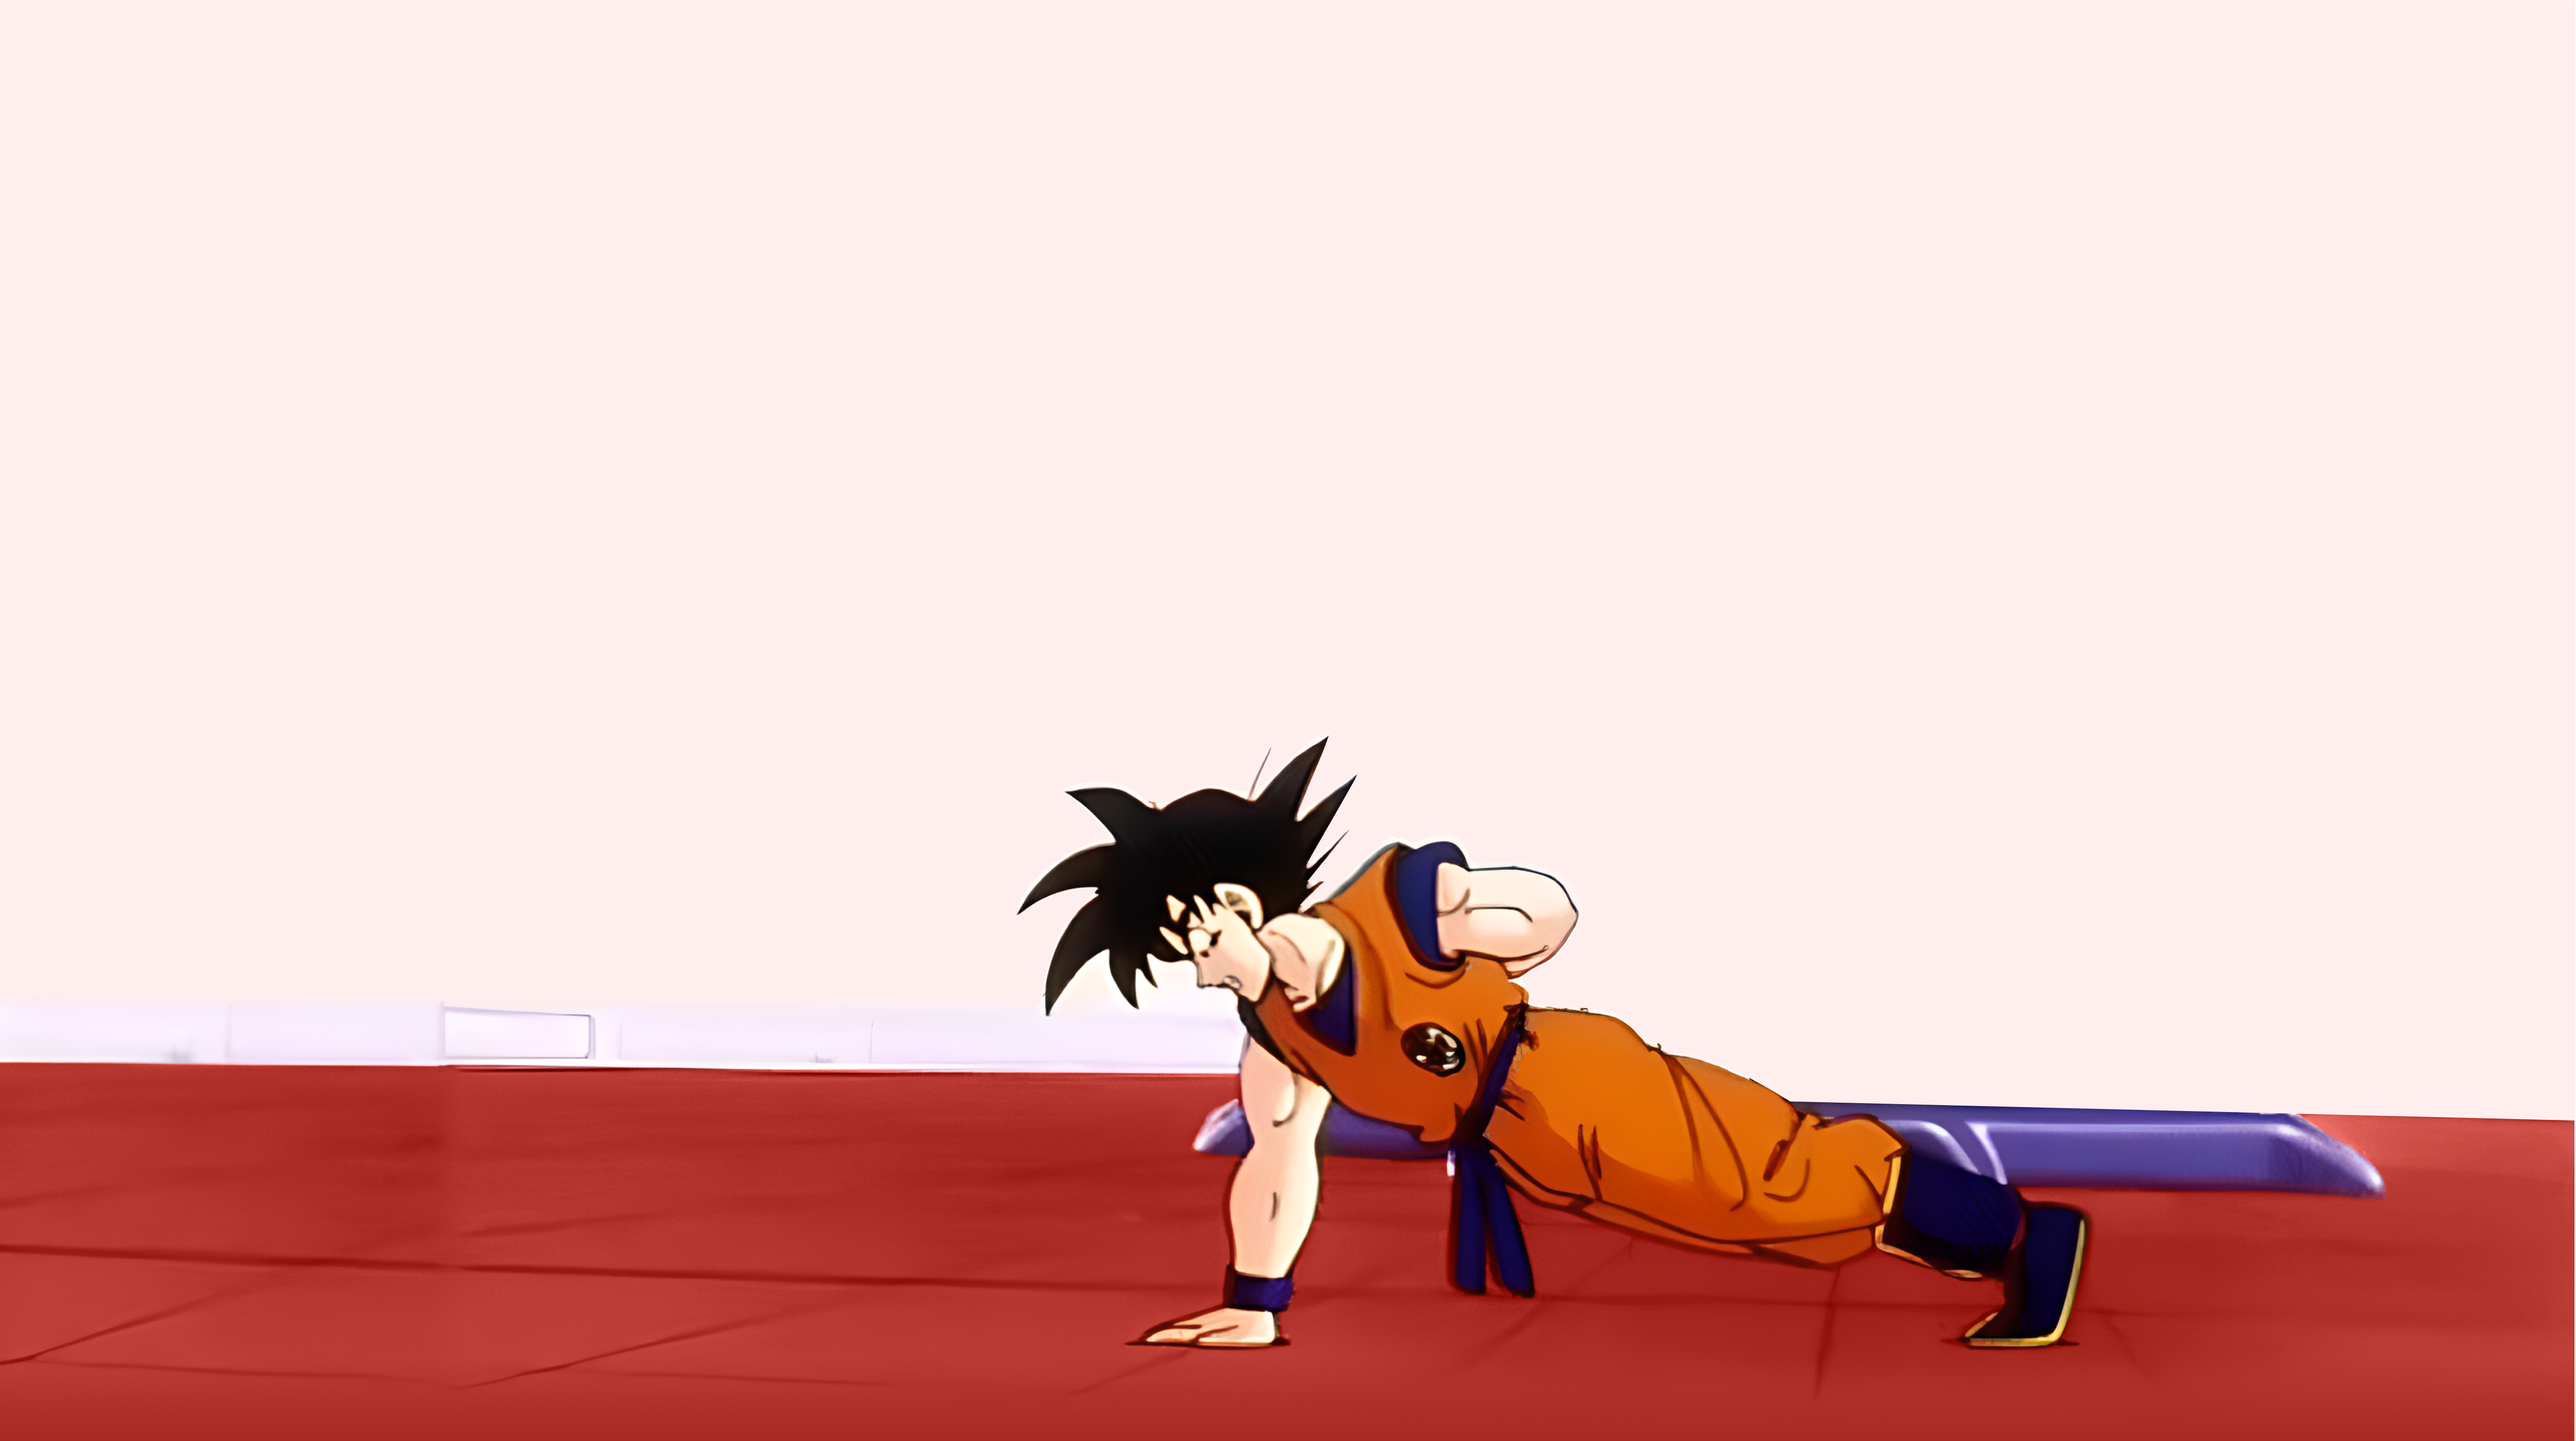
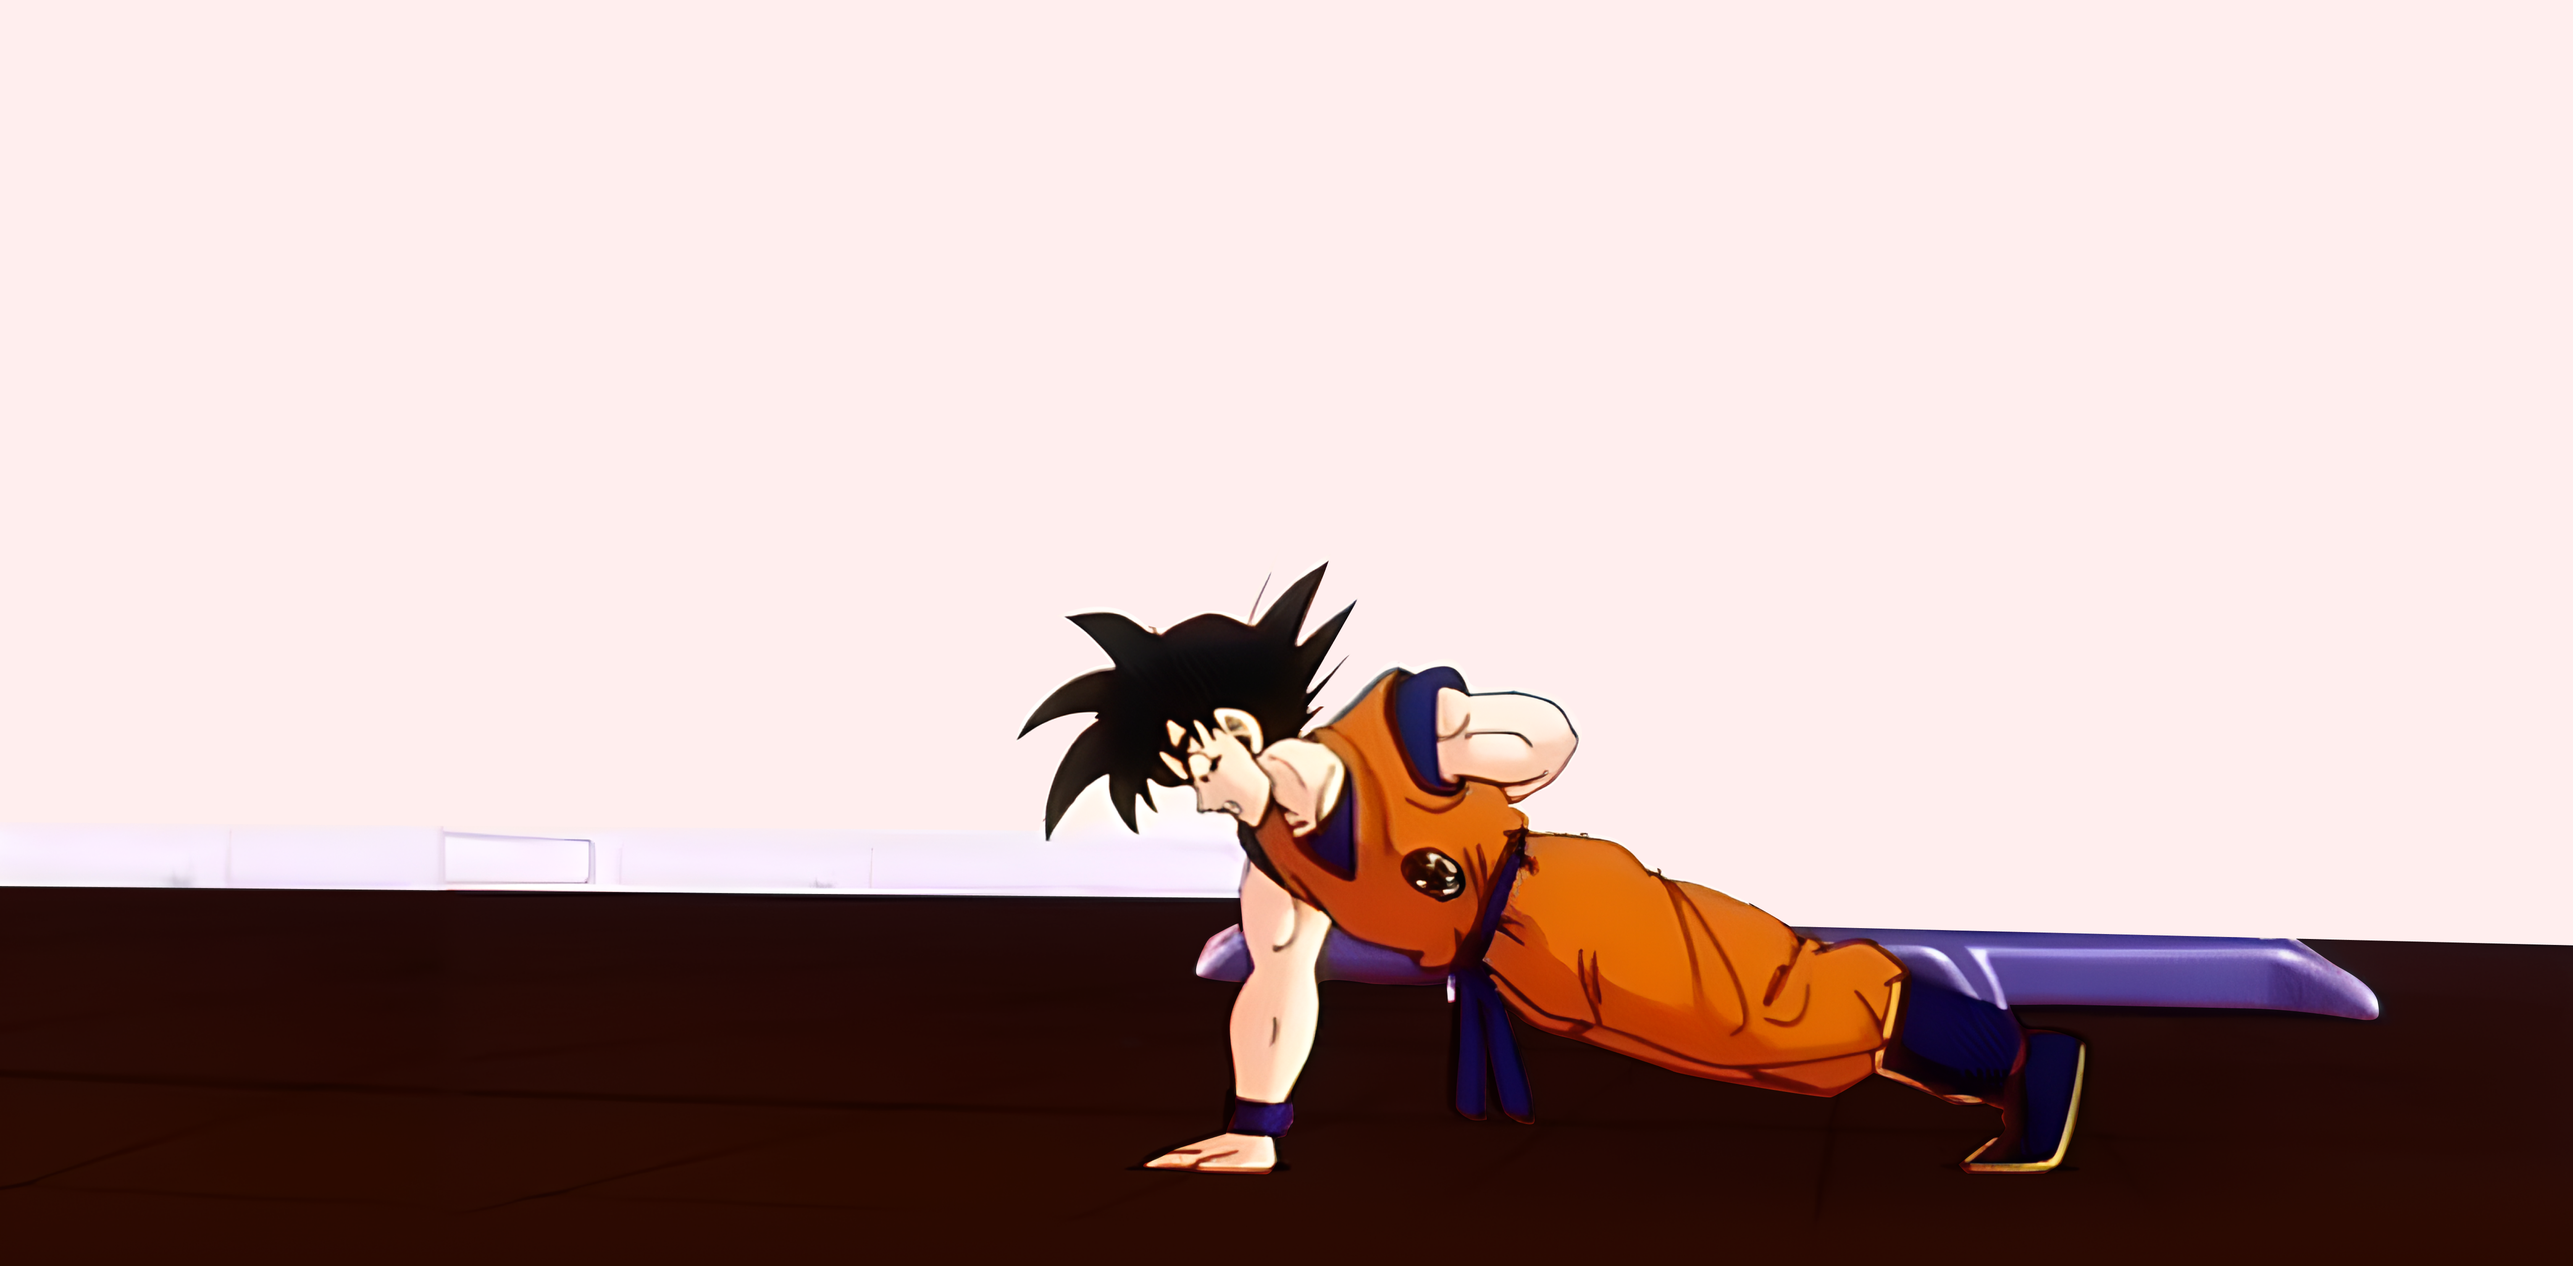
Update about page

Changed region(s): [[0.0, 0.4322, 1.0, 1.0]]

diff --git a/about.html b/about.html
@@ -115,7 +115,7 @@
     <div id="work">
 
         <div class="section" id="about_me">
-            <div class="container">
+            <!-- <div class="container">
                 <div class="description">
                     <div class="circle_image"><img src="./images/about_pic2.png">
                     </div>
@@ -127,7 +127,7 @@
                         When I am not working, you can find me lifting some weights, reading something or scoring some crazy goals in FIFA.
                     </div>
                 </div>    
-            </div>
+            </div> -->
         </div>    
         <!-- </div>
         <img src="./images/me.png" id="me">
@@ -163,7 +163,7 @@
         </div>
 
  <div id="work">
-    <div class="section" id="books" style="background: #A72921; height: 35vh;">
+    <div class="section" id="books" style="background: #2B0902; height: 35vh;">
         <div class="container" id="left_header">
             <div class="description" >
                 <div class="sub-header" style="color: #fff7;">
@@ -187,8 +187,8 @@
     </div>
         </div> 
 
-<div id="work" style="background: #A72921">
-    <div class="section" id="books" style="background: #A72921; height: fit-content; display:flex; flex-direction: column; align-items: flex-start; width:100vw; margin: auto;" >
+<div id="work" style="background: #2B0902">
+    <div class="section" id="books" style="background: #2B0902; height: fit-content; display:flex; flex-direction: column; align-items: flex-start; width:100vw; margin: auto;" >
           <!-- <div class="text_desc" style="text-align:left; color:#fff; padding: 1rem;">Some good reads</div> -->
 <div id="Book_auto_scroll" class="scroll-container">
   <div id="Book_auto_scroll_grid" class="gridscroll">
@@ -333,7 +333,7 @@
     </div>
 
         </div> 
- <div id="work" style="background:#a72921">
+ <div id="work" style="background:#2B0902">
     <div class="section" id="games">
         <div class="container games_heading" id="left_header">
             <div class="description" >
@@ -386,7 +386,7 @@
         </div>
 
 <div id="work">
-    <div class="section" id="books" style="background: linear-gradient(180deg, #4A0D05 0%, #210403 82.48%); height: 35vh;">
+    <div class="section" id="books" style="background: #1E0505; height: 35vh;">
         <div class="container" id="left_header">
             <div class="description" >
                 <div class="sub-header" style="color: #fff7;">
@@ -410,8 +410,8 @@
     </div>
         </div> 
 
-<div id="work" style="background: #210403">
-    <div id="height_62vh_on_mobile" class="section" id="books" style="background: #210403; height: fit-content; display:flex; flex-direction: column; align-items: flex-start; width:100vw; margin: auto; padding-bottom: 60px;" >
+<div id="work" style="background: #1E0505">
+    <div id="height_62vh_on_mobile" class="section" id="books" style="background: #1E0505; height: fit-content; display:flex; flex-direction: column; align-items: flex-start; width:100vw; margin: auto; padding-bottom: 60px;" >
            <!-- <div class="text_desc" style="text-align:left; color:#fff; padding: 1rem;">Some good reads</div> -->
 <div id="Naruto_auto_scroll" class="scroll-container">
   <div id="Carousel1" class="gridscroll">
@@ -488,11 +488,11 @@
     </div>
         </div> 
  <div id="work" style="background: #1E0505">
-    <div class="section" id="books" style="background: #1E0505; height: 55vh; display:flex; flex-direction: column; align-items: center; width:100vw; margin: auto;" >
+    <div class="section" id="books" style="background: #1E0505; height: 56vh; display:flex; flex-direction: column; align-items: center; width:100vw; margin: auto;" >
           <!-- <div class="text_desc" style="text-align:left; color:#fff; padding: 1rem;">Some good reads</div> -->
-<div id="People_images_tooltip" class="scroll-container" style="display: flex; flex-direction:row">
+<div id="People_images_tooltip" class="" style="display: flex; flex-direction:row; padding: 0 4rem 0 4rem">
     <!-- PLACE YOUR IMG URL HERE -->
-      <div class="boys" style="width:60%; height: 100%; object-fit: cover;">
+      <div class="boys" style="width:60%; height: 100%; object-fit: cover; ">
         
         <img class="fit" src="./images/people.png"  />
         <img class="fit" src="./images/boys.png"  />

diff --git a/css/index.css b/css/index.css
@@ -264,10 +264,10 @@
     to { background-position: 87% 500, 0px 0px, 0px 0px; }
 }
 #work #about_me{
-    background: url('../images/about_cover.png');
+    background: url('../images/about_me_cover.png');
     background-repeat: no-repeat;
-    background-position:90% 100%, 0px 0px, 0px 0px;
-    background-size: auto 90%, auto, auto;
+    background-position:50% 50%, 0px 0px, 0px 0px;
+    background-size: 100%, auto, auto, auto;
 }
 #work #company{
     display: flex;
@@ -336,7 +336,7 @@
     text-align: left;
     /* margin-top: 0.5em; */
     font-family: 'Playfair Display', sans-serif;
-    color: #340f0f !important;
+    color: #2B0902 !important;
     font-weight: 900;
     line-height: 4.6rem;
     font-size: 3.6rem;
@@ -492,8 +492,8 @@ nav a{
 .sticky{
     background-color: #fff9 !important;
     position: fixed;
-    z-index: 20 !important;
     top: 0;
+    z-index: 20 !important;
     padding-top: .2em;
     padding-bottom: .5em;
     width: 100%;
